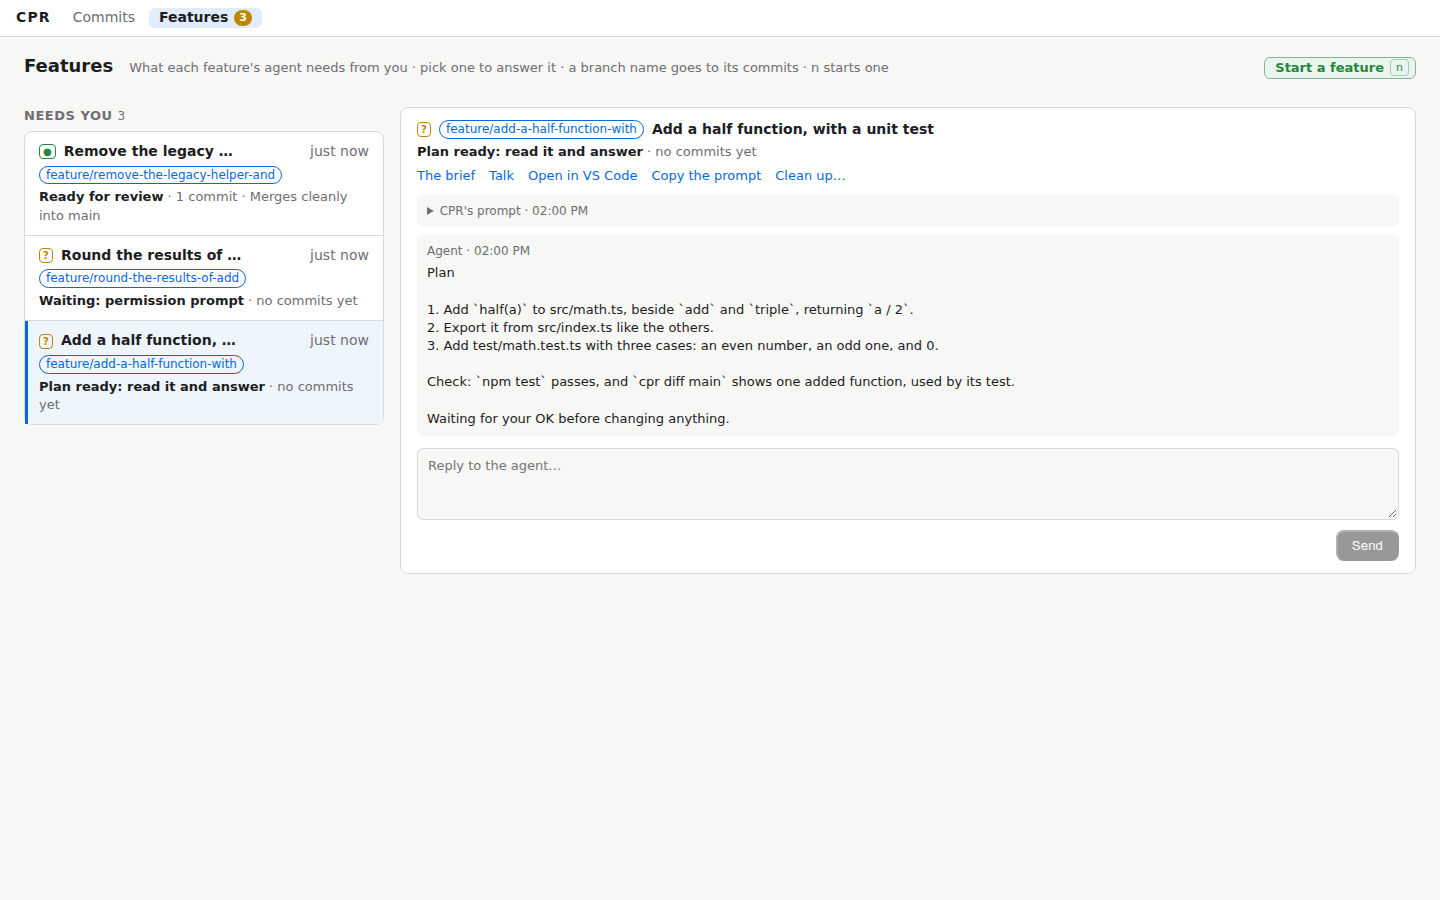
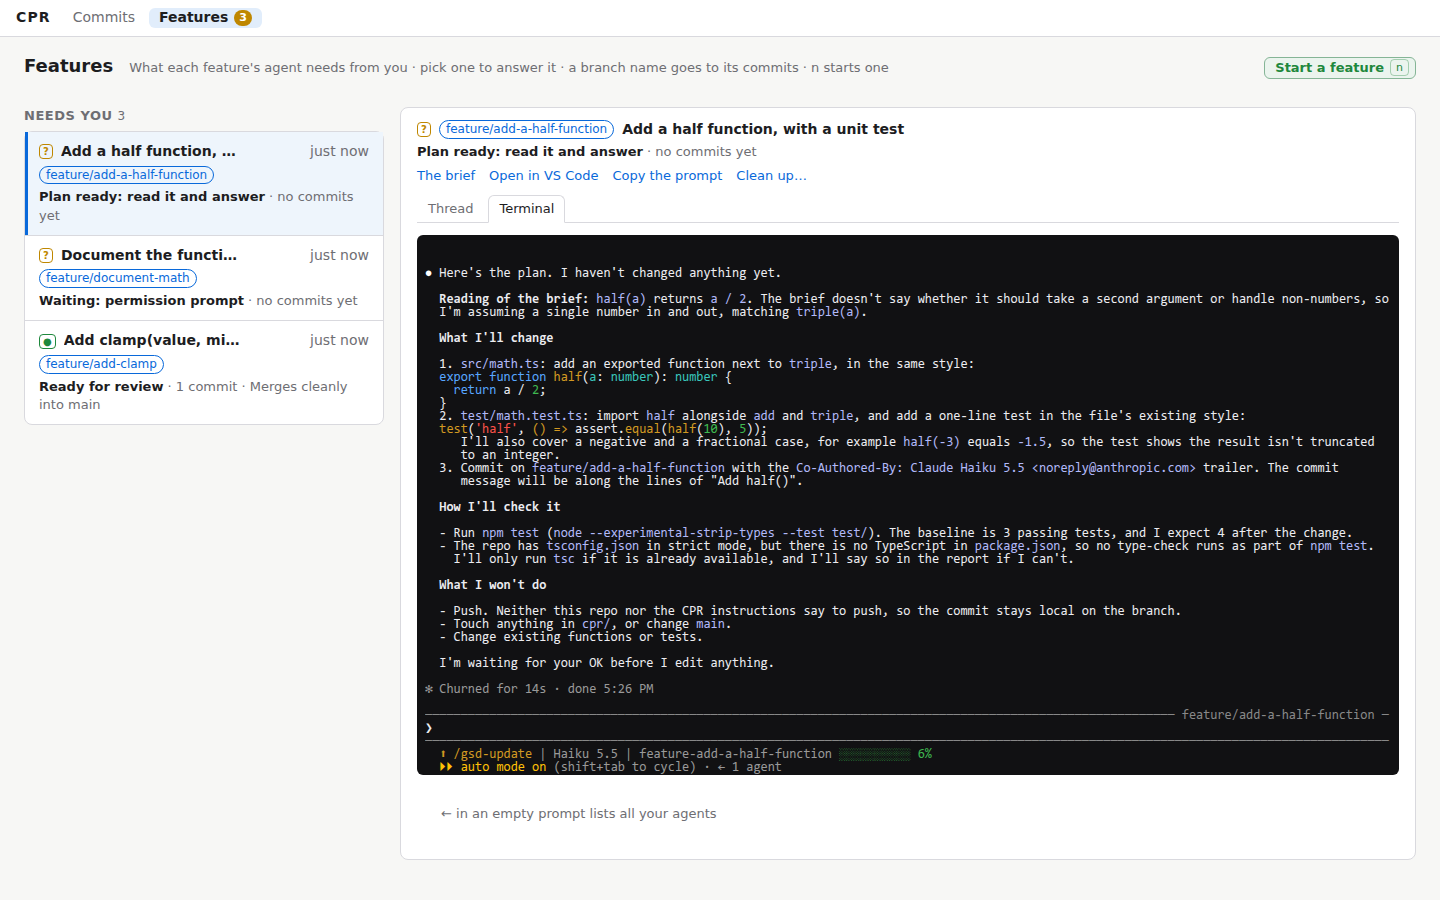
Docs: Features screenshot retaken with V21's terminal
The README's Features image predated V21: it showed the thread and its reply box, while the panel
now opens on the agent's Terminal. Retaken at 1440 x 900 from this branch's build with a real
Claude Code (2.1.302, Haiku 5.5): three throwaway features by what they need (a plan to read, a
permission prompt, a branch ready for review) and the picked one's plan in the terminal. All
three removed after (CPR's Clean up, the folders, `claude purge` of their worktrees). The
caption says what it shows now.

The README re-checked against current main: every flag in `cpr --help`, `cpr diff|view|pr
--help` is there and every one it names exists (`--bg` is Claude Code's); every CPR_ variable it
names is read by the code (`CPR_VIEWER_DIR`, for tests, left out). pnpm check: 723 unit tests.

diff --git a/docs/JOURNAL.md b/docs/JOURNAL.md
@@ -2701,3 +2701,17 @@ the thread drawn as Markdown, Talk only without the terminal, `CPR_TERMINAL` and
 carried into it. The images are from before V21: the Features tab shows the thread with its box,
 not the terminal. `main` verified after the merge (same tree as the branch): 723 unit tests,
 build, 102 e2e.
+
+**Features screenshot retaken after V21** (2026-10-18, same branch): `features.png` now shows the
+Terminal tab with a real Claude Code (2.1.302, Haiku 5.5, the person's Pro subscription), not
+the e2e fake, whose `attach` only prints its ID. Three throwaway features in a small repository
+(`src/math.ts`, three tests) served by this branch's `cpr view`: one plan first (its plan in 10
+s), one in `auto` that stopped at a permission prompt, one that wrote `clamp`, ran the tests and
+committed (30 s); the picked one's plan in the terminal. A feature's worktree takes its trust
+from the main repository's folder (the parent folder `/` being trusted did not count: refused in
+`/tmp`), so the repository was made at the path the person had trusted for the V18c spike.
+Everything removed after: CPR's Clean up (sessions and worktrees), the folders, and Claude Code's
+records of the three worktrees (`claude purge`); the repository folder's older records and trust
+entry left as they were. The image shows the person's status line (model, folder, context) and
+nothing personal. The README re-checked against the CLI's help and the code: every flag and
+environment variable there (`CPR_VIEWER_DIR`, for tests, left out).

diff --git a/README.md b/README.md
@@ -274,7 +274,7 @@ review, and whether it merges cleanly, with these actions:
 - **Stop** or **Start** the agent;
 - **Copy the prompt**.
 
-![Features tab: three features by what they need, and the picked one's thread with the agent's plan and a reply box](docs/images/features.png)
+![Features tab: three agents by what they need from you, and the picked one's Claude Code session in the Terminal tab, its plan waiting for your OK](docs/images/features.png)
 
 Pick a feature and its panel opens beside the list, where it can on the agent's **Terminal**:
 its session as Claude Code draws it (the conversation, tool calls, permission prompts and
